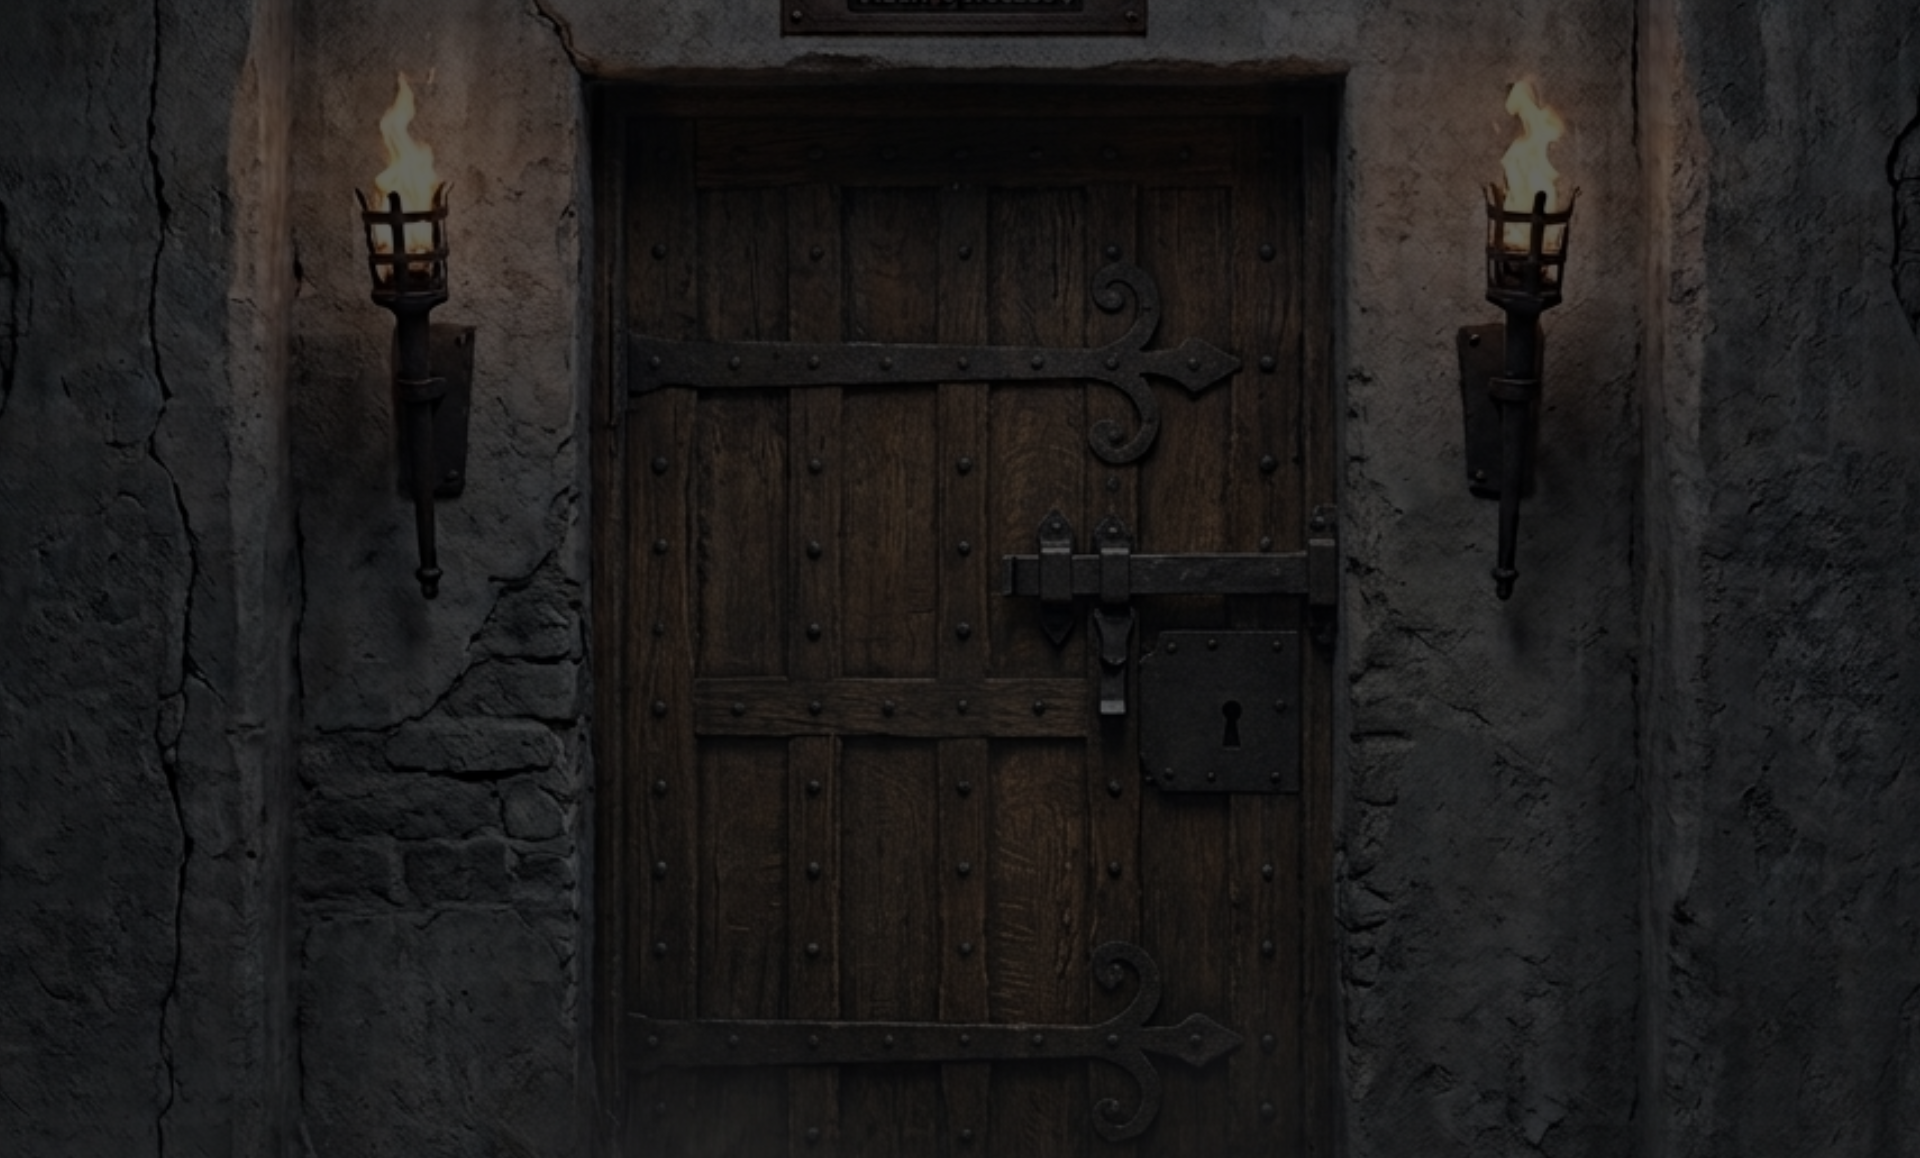
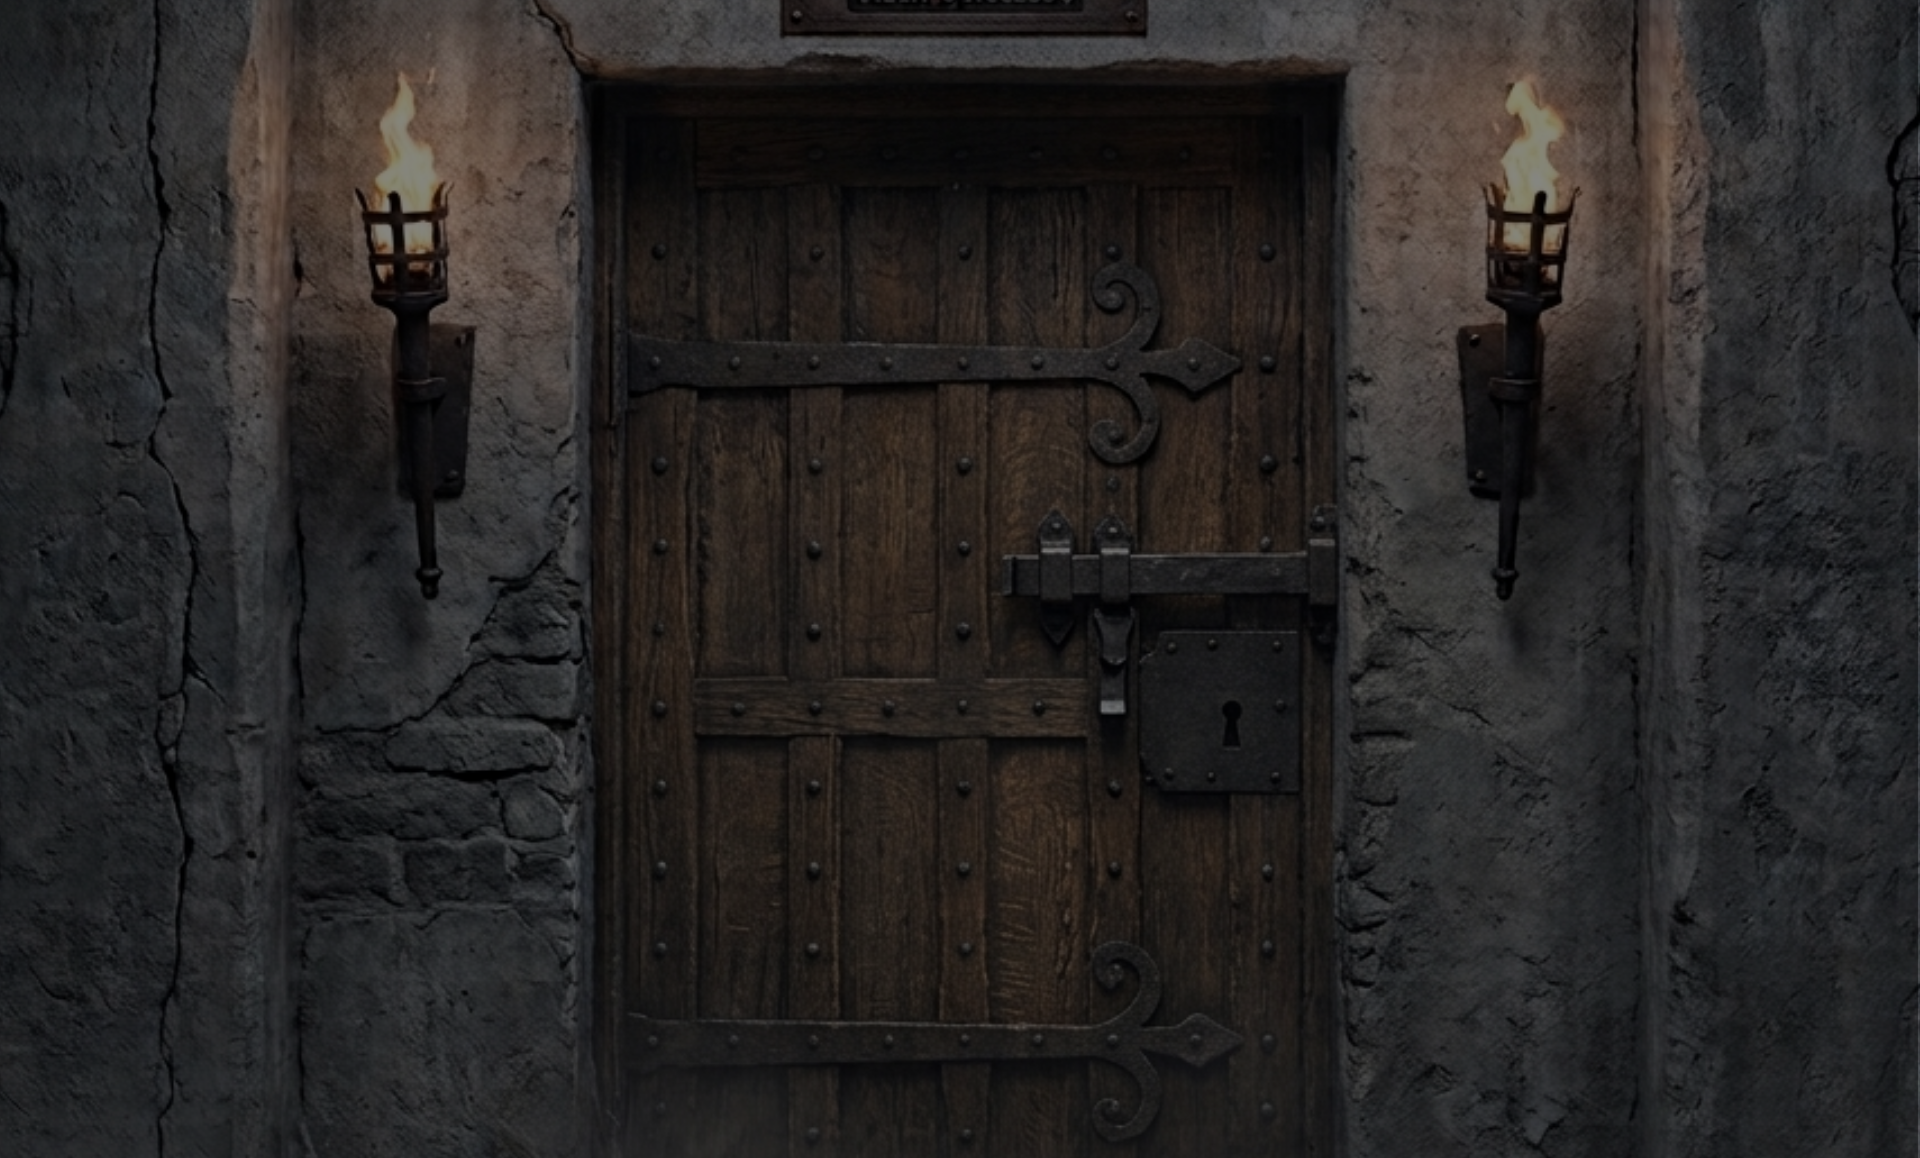
added headsDog minigame

Changed region(s): [[0.75, 0.0622, 0.875, 0.2176], [0.1875, 0.0622, 0.2812, 0.2487], [0.125, 0.0933, 0.1562, 0.1865]]

diff --git a/Frontend/src/app/components/minigame-container/heads-dog-minigame/heads-dog-minigame.component.css b/Frontend/src/app/components/minigame-container/heads-dog-minigame/heads-dog-minigame.component.css
@@ -2,8 +2,6 @@
     position: relative;
     width: 100%;
     height: 100vh;
-    max-width: 900px;
-    margin: 0 auto;
     display: flex;
     flex-direction: column;
     user-select: none;
@@ -60,66 +58,107 @@
 .bar-outer.escape .bar-inner {
     background: linear-gradient(90deg, #2196f3, #00bcd4);
 }
+.game-instructions {
+    text-align: center;
+    padding: 10px 20px;
+    background: rgba(0, 0, 0, 0.75);
+    color: #f5e6c8;
+    font-size: 1.2rem;
+    line-height: 1.4;
+    border-bottom: 1px solid #444;
+}
 
-/* Area Porta */
 .door-frame {
     position: relative;
     flex: 1;
-    margin: 20px;
-    border: 4px solid #3a2312;
-    border-radius: 8px;
+    background: url('../../../../assets/img/Part6/wooden_door.png') center center / cover no-repeat;
+    z-index: 1;
     overflow: hidden;
+    background-size: contain;
+    background-position: center;
+    background-repeat: no-repeat;
 }
 
-.door-bg {
-    width: 100%;
-    height: 100%;
-    background: url('/assets/images/minigames/wooden_door.jpg') center/cover no-repeat;
-    filter: brightness(0.7);
-}
-
-/* Punti di Minaccia */
 .threat-point {
     position: absolute;
-    width: 70px;
-    height: 70px;
-    transform: translate(-50%, -50%);
+    inset: 0;
+    width: 100%;
+    height: 100%;
+    z-index: 10;
     cursor: pointer;
-    display: flex;
-    flex-direction: column;
-    align-items: center;
-    justify-content: center;
-    animation: threat-pulse 0.6s infinite alternate;
+    /*animation: threat-pulse 0.6s infinite alternate;*/
 }
 
 .threat-icon {
-    width: 50px;
-    height: 50px;
-    background-size: contain;
+    width: 100%;
+    height: 100%;
     background-repeat: no-repeat;
     background-position: center;
+    background-size: contain;
+    pointer-events: none;
+
+}
+.click-zone {
+    position: absolute;
+    width: 180px;
+    height: 180px;
+    transform: translate(-50%, -50%);
+    z-index: 20;
+    cursor: pointer;
+    border-radius: 50%;
+    border: 2px solid red; /* DEBUG */
+}
+/* Muso centrale */
+.threat-point.face .click-zone {
+    left: 50%;
+    top: 38%;
+}
+
+/* Muso sinistro */
+.threat-point.crack .click-zone {
+    left: 32%;
+    top: 40%;
+}
+
+/* Muso destro */
+.threat-point.teeth .click-zone {
+    left: 71%;
+    top: 76%;
+}
+
+/* Graffi */
+.threat-point.claws .click-zone {
+    left: 41%;
+    top: 83%;
+}
+
+/* Crepa centrale */
+.threat-point.bulge .click-zone {
+    left: 62%;
+    top: 20%;
 }
 
 /* Stili specifici per indicatore visivo */
 .threat-point.claws .threat-icon {
-    background-image: url('/assets/images/minigames/icon_claws.png');
+    background-image: url('../../../../assets/img/Part6/claws.png');
 }
 
-.threat-point.eyes .threat-icon {
-    background-image: url('/assets/images/minigames/icon_eyes.png');
+.threat-point.face .threat-icon {
+    background-image: url('../../../../assets/img/Part6/frontFace.png');
 }
 
 .threat-point.crack .threat-icon {
-    background-image: url('/assets/images/minigames/icon_crack.png');
+    background-image: url('../../../../assets/img/Part6/leftFace.png');
 }
 
 .threat-point.teeth .threat-icon {
-    background-image: url('/assets/images/minigames/icon_teeth.png');
+    background-image: url('../../../../assets/img/Part6/rightFace.png');
 }
 
 .threat-point.bulge .threat-icon {
-    background-image: url('/assets/images/minigames/icon_bulge.png');
+    background-image: url('../../../../assets/img/Part6/crack.png');
 }
+
 
 /* Anello di caricamento sulla pressione */
 .progress-ring {
@@ -195,15 +234,14 @@
     background: #555;
 }
 
-/* Animazioni */
 @keyframes threat-pulse {
     from {
-        transform: translate(-50%, -50%) scale(0.95);
-        opacity: 0.8;
+        transform: translate(-50%, -50%) scale(0.90);
+        opacity: 1;
     }
 
     to {
-        transform: translate(-50%, -50%) scale(1.1);
+        transform: translate(-50%, -50%) scale(0.95);
         opacity: 1;
     }
 }

diff --git a/Frontend/src/app/components/minigame-container/heads-dog-minigame/heads-dog-minigame.component.ts b/Frontend/src/app/components/minigame-container/heads-dog-minigame/heads-dog-minigame.component.ts
@@ -4,7 +4,7 @@ interface ThreatPoint {
   id: number;
   x: number; // Percentuale posizione X sulla porta
   y: number; // Percentuale posizione Y sulla porta
-  type: 'claws' | 'eyes' | 'crack' | 'teeth' | 'bulge';
+  type: 'claws' | 'face' | 'crack' | 'teeth' | 'bulge';
   progress: number; // 0 a 100
   timer: any;
 }
@@ -39,8 +39,8 @@ export class HeadsDogMinigameComponent implements OnInit {
   private currentPhase: 1 | 2 | 3 = 1;
 
   // Tipi di indicatori visivi
-  readonly threatTypes: ('claws' | 'eyes' | 'crack' | 'teeth' | 'bulge')[] = [
-    'claws', 'eyes', 'crack', 'teeth', 'bulge'
+  readonly threatTypes: ('claws' | 'face' | 'crack' | 'teeth' | 'bulge')[] = [
+    'claws', 'face', 'crack', 'teeth', 'bulge'
   ];
 
   ngOnInit(): void {
@@ -87,11 +87,11 @@ export class HeadsDogMinigameComponent implements OnInit {
     // 2. Calcolo Danno alla Porta
     if (this.activeThreats.length > 0) {
       // Ogni minaccia attiva infligge danno costante
-      const damage = this.activeThreats.length * 0.35 * this.currentPhase;
+      const damage = this.activeThreats.length * 0.15 * this.currentPhase;
       this.doorStability = Math.max(0, this.doorStability - damage);
     } else {
       // Recupero lento se non ci sono attacchi in corso
-      this.doorStability = Math.min(100, this.doorStability + 0.15);
+      this.doorStability = Math.min(100, this.doorStability + 0.10);
     }
 
     // Controllo Sconfitta
@@ -104,15 +104,15 @@ export class HeadsDogMinigameComponent implements OnInit {
     if (this.isGameOver || this.isVictory) return;
 
     // Tempo di attesa casuale tra un attacco e l'altro basato sulla fase
-    let minDelay = 2500;
-    let maxDelay = 4000;
+    let minDelay = 1800;
+    let maxDelay = 2500;
 
     if (this.currentPhase === 2) {
-      minDelay = 1800;
-      maxDelay = 3000;
-    } else if (this.currentPhase === 3) {
       minDelay = 1000;
-      maxDelay = 2000;
+      maxDelay = 1800;
+    } else if (this.currentPhase === 3) {
+      minDelay = 500;
+      maxDelay = 1200;
     }
 
     const delay = Math.floor(Math.random() * (maxDelay - minDelay + 1)) + minDelay;
@@ -124,6 +124,10 @@ export class HeadsDogMinigameComponent implements OnInit {
   }
 
   private spawnThreat(): void {
+    if (this.holdingThreat) {
+      return;
+    }
+
     // Limita il numero di minacce contemporanee in base alla fase
     const maxConcurrent = this.currentPhase === 3 ? 2 : 1;
     if (this.activeThreats.length >= maxConcurrent) return;
@@ -154,7 +158,7 @@ startHolding(threat: ThreatPoint): void {
     // Pressione ogni 50ms -> completa la stabilizzazione in circa 1.5 secondi
     this.holdInterval = setInterval(() => {
       if (this.holdingThreat) {
-        this.holdingThreat.progress += 3.5;
+        this.holdingThreat.progress += 6;
 
         if (this.holdingThreat.progress >= 100) {
           this.resolveThreat(this.holdingThreat);
@@ -197,7 +201,11 @@ startHolding(threat: ThreatPoint): void {
     this.isGameOver = true;
   }
 
-  completeMinigame(success: boolean) {
+  completeMinigame() {
+    this.endMinigame(true); 
+  }
+
+  endMinigame(success: boolean) {
     const targetNode = success ? '3HeadsDog2' : 'hospital';
     this.minigameSolved.emit(targetNode);
   }

diff --git a/Frontend/src/app/components/minigame-container/heads-dog-minigame/heads-dog-minigame.component.html b/Frontend/src/app/components/minigame-container/heads-dog-minigame/heads-dog-minigame.component.html
@@ -19,22 +19,25 @@
     </div>
   </div>
 
+  <div class="game-instructions">
+    La creatura sta cercando di uscire! Usa tutta la tua forza per resistere agli assalti e mantenre la porta chiusa finché la fuga non sarà completata.
+  </div>
+
   <!-- Area di Gioco: La Porta -->
   <div class="door-frame">
-    <div class="door-bg"></div>
 
     <!-- Render delle Minacce Attive sulla Porta -->
     <div
       *ngFor="let threat of activeThreats"
       class="threat-point {{ threat.type }}"
-      [style.left.%]="threat.x"
-      [style.top.%]="threat.y"
-      (mousedown)="startHolding(threat)"
-      (touchstart)="startHolding(threat)"
     >
       <!-- Indicatore Visivo del Tipo di Attacco -->
       <div class="threat-icon"></div>
 
+      <div 
+          class="click-zone"
+          (mousedown)="startHolding(threat)"
+          (touchstart)="startHolding(threat)"></div>
       <!-- Anello o Barra di Stabilizzazione del Punto -->
       <div class="progress-ring" *ngIf="threat.progress > 0">
         <div class="progress-fill" [style.width.%]="threat.progress"></div>

diff --git a/Frontend/src/app/components/Film1/part6/part6.component.html b/Frontend/src/app/components/Film1/part6/part6.component.html
@@ -21,7 +21,7 @@
 <div class="Part6-container" *ngIf="actualPhase">
   <div class="Part6-viewport">
     <div class="Part6-view">
-      <div class="scene-visuals" *ngIf="actualPhase.type !== 'enigma'">
+      <div class="scene-visuals" *ngIf="actualPhase.type !== 'enigma' && actualPhase.type !== 'minigame'">
         <div class="image-wrapper">
           <img
             class="Part6-img"
